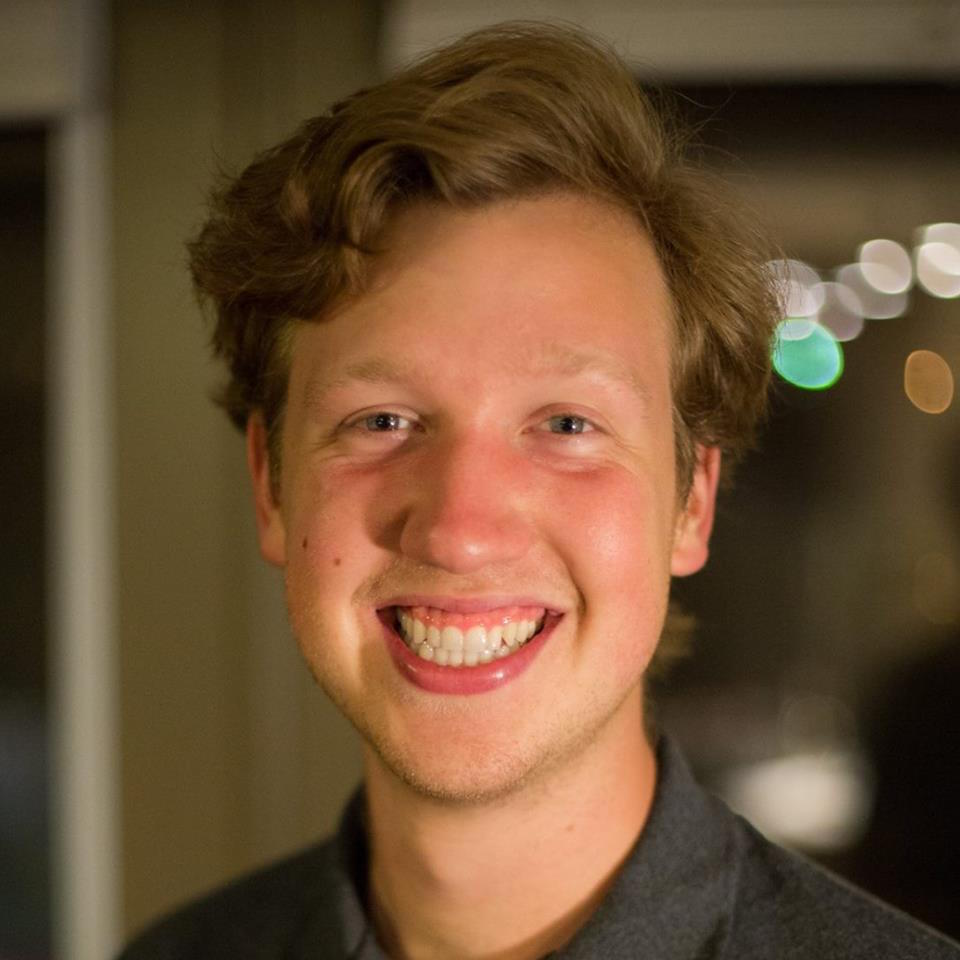
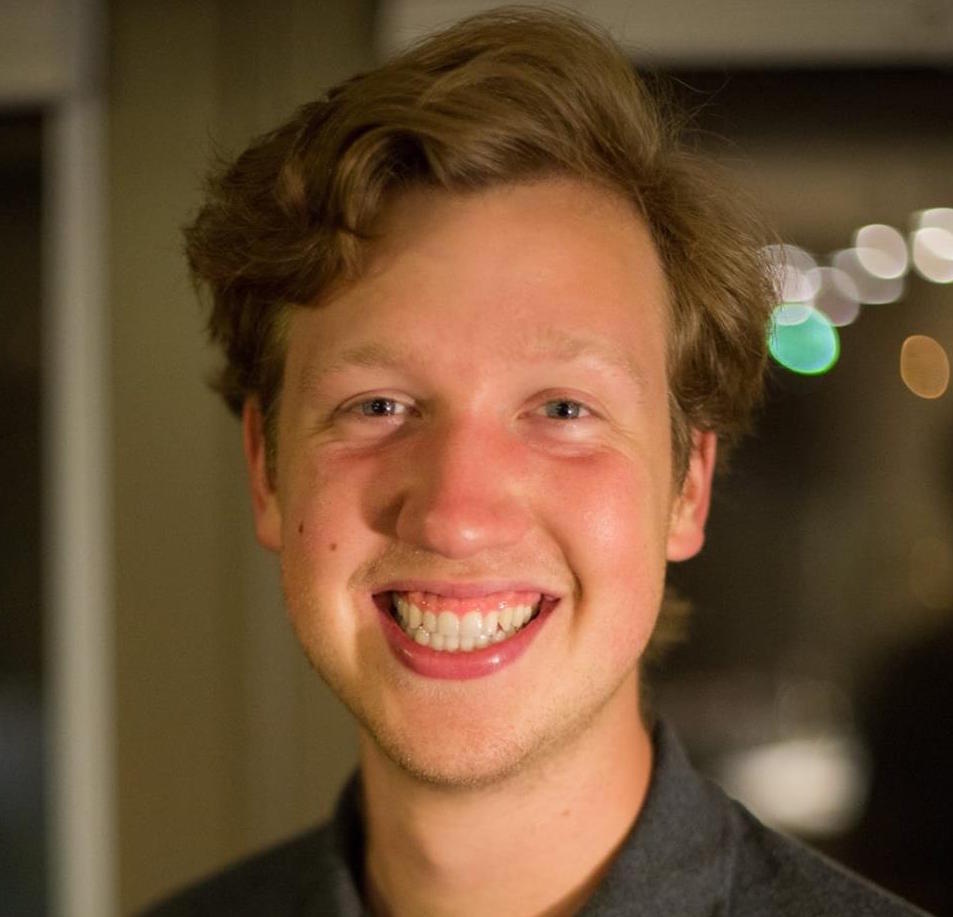
other pages menu options

diff --git a/aboutus.html b/aboutus.html
@@ -36,21 +36,21 @@
         <!-- /.navbar-header -->
         <div class="collapse navbar-collapse">
           <ul class="nav navbar-nav">
-            <li class="dropdown"><a href="ElectricConversions.html" class="dropdown-toggle js-activated" data-toggle="dropdown">Electric Conversions <span class="caret"></span></a>
-              <ul class="dropdown-menu">
-                <li><a href="#">Selecting your vehicle</a></li>
-                <li><a href="#">Reserve yours</a></li>
-                <li><a href="#">Options and Specifications</a></li>
-                <li><a href="#">Configure and Pricing</a></li>
-                <li><a href="#">Build Process</a></li>
-              </ul>
-            </li>
+              <li class="dropdown"><a data-target="/ElectricConversions.html" href="ElectricConversions.html" class="dropdown-toggle js-activated" data-toggle="dropdown">Electric Conversions <span class="caret"></span></a>
+                <ul class="dropdown-menu">
+                  <li><a href="selectingyourvehicle.html">Selecting your vehicle</a></li>
+                  <li><a href="options.html">Options and Specifications</a></li>
+                  <li><a href="buildprocess.html">Build Process</a></li>
+                  <li><a href="pricing.html">Configure and Pricing</a></li>
+                  <li><a href="reserve.html">Reserve yours</a></li>
+                </ul>
+              </li>
             <li><a href="portfolio.html">Portfolio</a>
             </li>
             <li><a href="aboutus.html">About Us</a>
             </li>
-            <li><a href="#">Blog</span></a>
-            </li>
+            <!-- <li><a href="#">Blog</span></a>
+            </li> -->
             <li><a href="contactus.html">Contact Us</a>
             </li>
           </ul>
@@ -95,7 +95,7 @@
         </div>
         <!-- /column -->
         <div class="col-sm-4 text-center">
-          <figure><img src="style/images/Josh.jpg" alt="" /></figure>
+          <figure><img src="style/images/Josh.png" alt="" /></figure>
           <h4 class="post-title">Josh Preissle</h4>
           <p>Josh is originally from Ann Arbor, Michigan and has lived in Atlanta for the past 5 years. Growing up he loved everything that moved, and he knew he wanted study mechanical engineering from the age of six. While at school he was a member of the Georgia Tech Solar Racing where he developed a passion for electric racing, eventually rising to become President of the club and met Ben along the way.</p>
           <p>After Solar, he joined Ben building PH571, running the brake lines, designing components, and writing microcontroller code. At Eddy Motorworks, Josh performs a lot of the hands-on work on the vehicles, from assembly including custom brake and coolant plumbing, to custom part fabrication.</p>

diff --git a/reserve.html b/reserve.html
@@ -36,21 +36,21 @@
         <!-- /.navbar-header -->
         <div class="collapse navbar-collapse">
           <ul class="nav navbar-nav">
-            <li class="dropdown"><a href="ElectricConversions.html" class="dropdown-toggle js-activated" data-toggle="dropdown">Electric Conversions <span class="caret"></span></a>
-              <ul class="dropdown-menu">
-                <li><a href="selectingyourvehicle.html">Selecting your vehicle</a></li>
-                <li><a href="options.html">Options and Specifications</a></li>
-                <li><a href="#">Build Process</a></li>
-                <li><a href="pricing.html">Configure and Pricing</a></li>
-                <li><a href="reserve.html">Reserve yours</a></li>
-              </ul>
-            </li>
+              <li class="dropdown"><a data-target="/ElectricConversions.html" href="ElectricConversions.html" class="dropdown-toggle js-activated" data-toggle="dropdown">Electric Conversions <span class="caret"></span></a>
+                <ul class="dropdown-menu">
+                  <li><a href="selectingyourvehicle.html">Selecting your vehicle</a></li>
+                  <li><a href="options.html">Options and Specifications</a></li>
+                  <li><a href="buildprocess.html">Build Process</a></li>
+                  <li><a href="pricing.html">Configure and Pricing</a></li>
+                  <li><a href="reserve.html">Reserve yours</a></li>
+                </ul>
+              </li>
             <li><a href="portfolio.html">Portfolio</a>
             </li>
             <li><a href="aboutus.html">About Us</a>
             </li>
-            <li><a href="#">Blog</span></a>
-            </li>
+            <!-- <li><a href="#">Blog</span></a>
+            </li> -->
             <li><a href="contactus.html">Contact Us</a>
             </li>
           </ul>
@@ -130,7 +130,7 @@
                 course, applied toward the total cost of your vehicle and it is completely refundable up until one
                 month prior to your build’s start date.</p>
             
-            <input align="middle" type="submit" class="btn" value="Reserve" data-error="Fix errors" data-processing="Sending..." data-success="Thank you!">
+            <input align="middle" type="submit" class="btn" value="Reserve" data-error="Reserve" data-processing="Sending..." data-success="Thank you!">
             
             <footer class="notification-box"></footer>
           </form>

diff --git a/pricing.html b/pricing.html
@@ -36,21 +36,21 @@
         <!-- /.navbar-header -->
         <div class="collapse navbar-collapse">
           <ul class="nav navbar-nav">
-            <li class="dropdown"><a href="ElectricConversions.html" class="dropdown-toggle js-activated" data-toggle="dropdown">Electric Conversions <span class="caret"></span></a>
-              <ul class="dropdown-menu">
-                <li><a href="selectingyourvehicle.html">Selecting your vehicle</a></li>
-                <li><a href="options.html">Options and Specifications</a></li>
-                <li><a href="buildprocess.html">Build Process</a></li>
-                <li><a href="pricing.html">Configure and Pricing</a></li>
-                <li><a href="reserve.html">Reserve yours</a></li>
-              </ul>
-            </li>
+              <li class="dropdown"><a data-target="/ElectricConversions.html" href="ElectricConversions.html" class="dropdown-toggle js-activated" data-toggle="dropdown">Electric Conversions <span class="caret"></span></a>
+                <ul class="dropdown-menu">
+                  <li><a href="selectingyourvehicle.html">Selecting your vehicle</a></li>
+                  <li><a href="options.html">Options and Specifications</a></li>
+                  <li><a href="buildprocess.html">Build Process</a></li>
+                  <li><a href="pricing.html">Configure and Pricing</a></li>
+                  <li><a href="reserve.html">Reserve yours</a></li>
+                </ul>
+              </li>
             <li><a href="portfolio.html">Portfolio</a>
             </li>
             <li><a href="aboutus.html">About Us</a>
             </li>
-            <li><a href="#">Blog</span></a>
-            </li>
+            <!-- <li><a href="#">Blog</span></a>
+            </li> -->
             <li><a href="contactus.html">Contact Us</a>
             </li>
           </ul>

diff --git a/contactus.html b/contactus.html
@@ -36,21 +36,21 @@
         <!-- /.navbar-header -->
         <div class="collapse navbar-collapse">
           <ul class="nav navbar-nav">
-            <li class="dropdown"><a href="ElectricConversions.html" class="dropdown-toggle js-activated" data-toggle="dropdown">Electric Conversions <span class="caret"></span></a>
-              <ul class="dropdown-menu">
-                <li><a href="#">Selecting your vehicle</a></li>
-                <li><a href="#">Reserve yours</a></li>
-                <li><a href="#">Options and Specifications</a></li>
-                <li><a href="#">Configure and Pricing</a></li>
-                <li><a href="#">Build Process</a></li>
-              </ul>
-            </li>
+              <li class="dropdown"><a data-target="/ElectricConversions.html" href="ElectricConversions.html" class="dropdown-toggle js-activated" data-toggle="dropdown">Electric Conversions <span class="caret"></span></a>
+                <ul class="dropdown-menu">
+                  <li><a href="selectingyourvehicle.html">Selecting your vehicle</a></li>
+                  <li><a href="options.html">Options and Specifications</a></li>
+                  <li><a href="buildprocess.html">Build Process</a></li>
+                  <li><a href="pricing.html">Configure and Pricing</a></li>
+                  <li><a href="reserve.html">Reserve yours</a></li>
+                </ul>
+              </li>
             <li><a href="portfolio.html">Portfolio</a>
             </li>
             <li><a href="aboutus.html">About Us</a>
             </li>
-            <li><a href="#">Blog</span></a>
-            </li>
+            <!-- <li><a href="#">Blog</span></a>
+            </li> -->
             <li><a href="contactus.html">Contact Us</a>
             </li>
           </ul>

diff --git a/portfolio.html b/portfolio.html
@@ -36,21 +36,21 @@
         <!-- /.navbar-header -->
         <div class="collapse navbar-collapse">
           <ul class="nav navbar-nav">
-            <li class="dropdown"><a href="ElectricConversions.html" class="dropdown-toggle js-activated" data-toggle="dropdown">Electric Conversions <span class="caret"></span></a>
-              <ul class="dropdown-menu">
-                <li><a href="#">Selecting your vehicle</a></li>
-                <li><a href="#">Reserve yours</a></li>
-                <li><a href="#">Options and Specifications</a></li>
-                <li><a href="#">Configure and Pricing</a></li>
-                <li><a href="#">Build Process</a></li>
-              </ul>
-            </li>
+              <li class="dropdown"><a data-target="/ElectricConversions.html" href="ElectricConversions.html" class="dropdown-toggle js-activated" data-toggle="dropdown">Electric Conversions <span class="caret"></span></a>
+                <ul class="dropdown-menu">
+                  <li><a href="selectingyourvehicle.html">Selecting your vehicle</a></li>
+                  <li><a href="options.html">Options and Specifications</a></li>
+                  <li><a href="buildprocess.html">Build Process</a></li>
+                  <li><a href="pricing.html">Configure and Pricing</a></li>
+                  <li><a href="reserve.html">Reserve yours</a></li>
+                </ul>
+              </li>
             <li><a href="portfolio.html">Portfolio</a>
             </li>
             <li><a href="aboutus.html">About Us</a>
             </li>
-            <li><a href="#">Blog</span></a>
-            </li>
+            <!-- <li><a href="#">Blog</span></a>
+            </li> -->
             <li><a href="contactus.html">Contact Us</a>
             </li>
           </ul>
